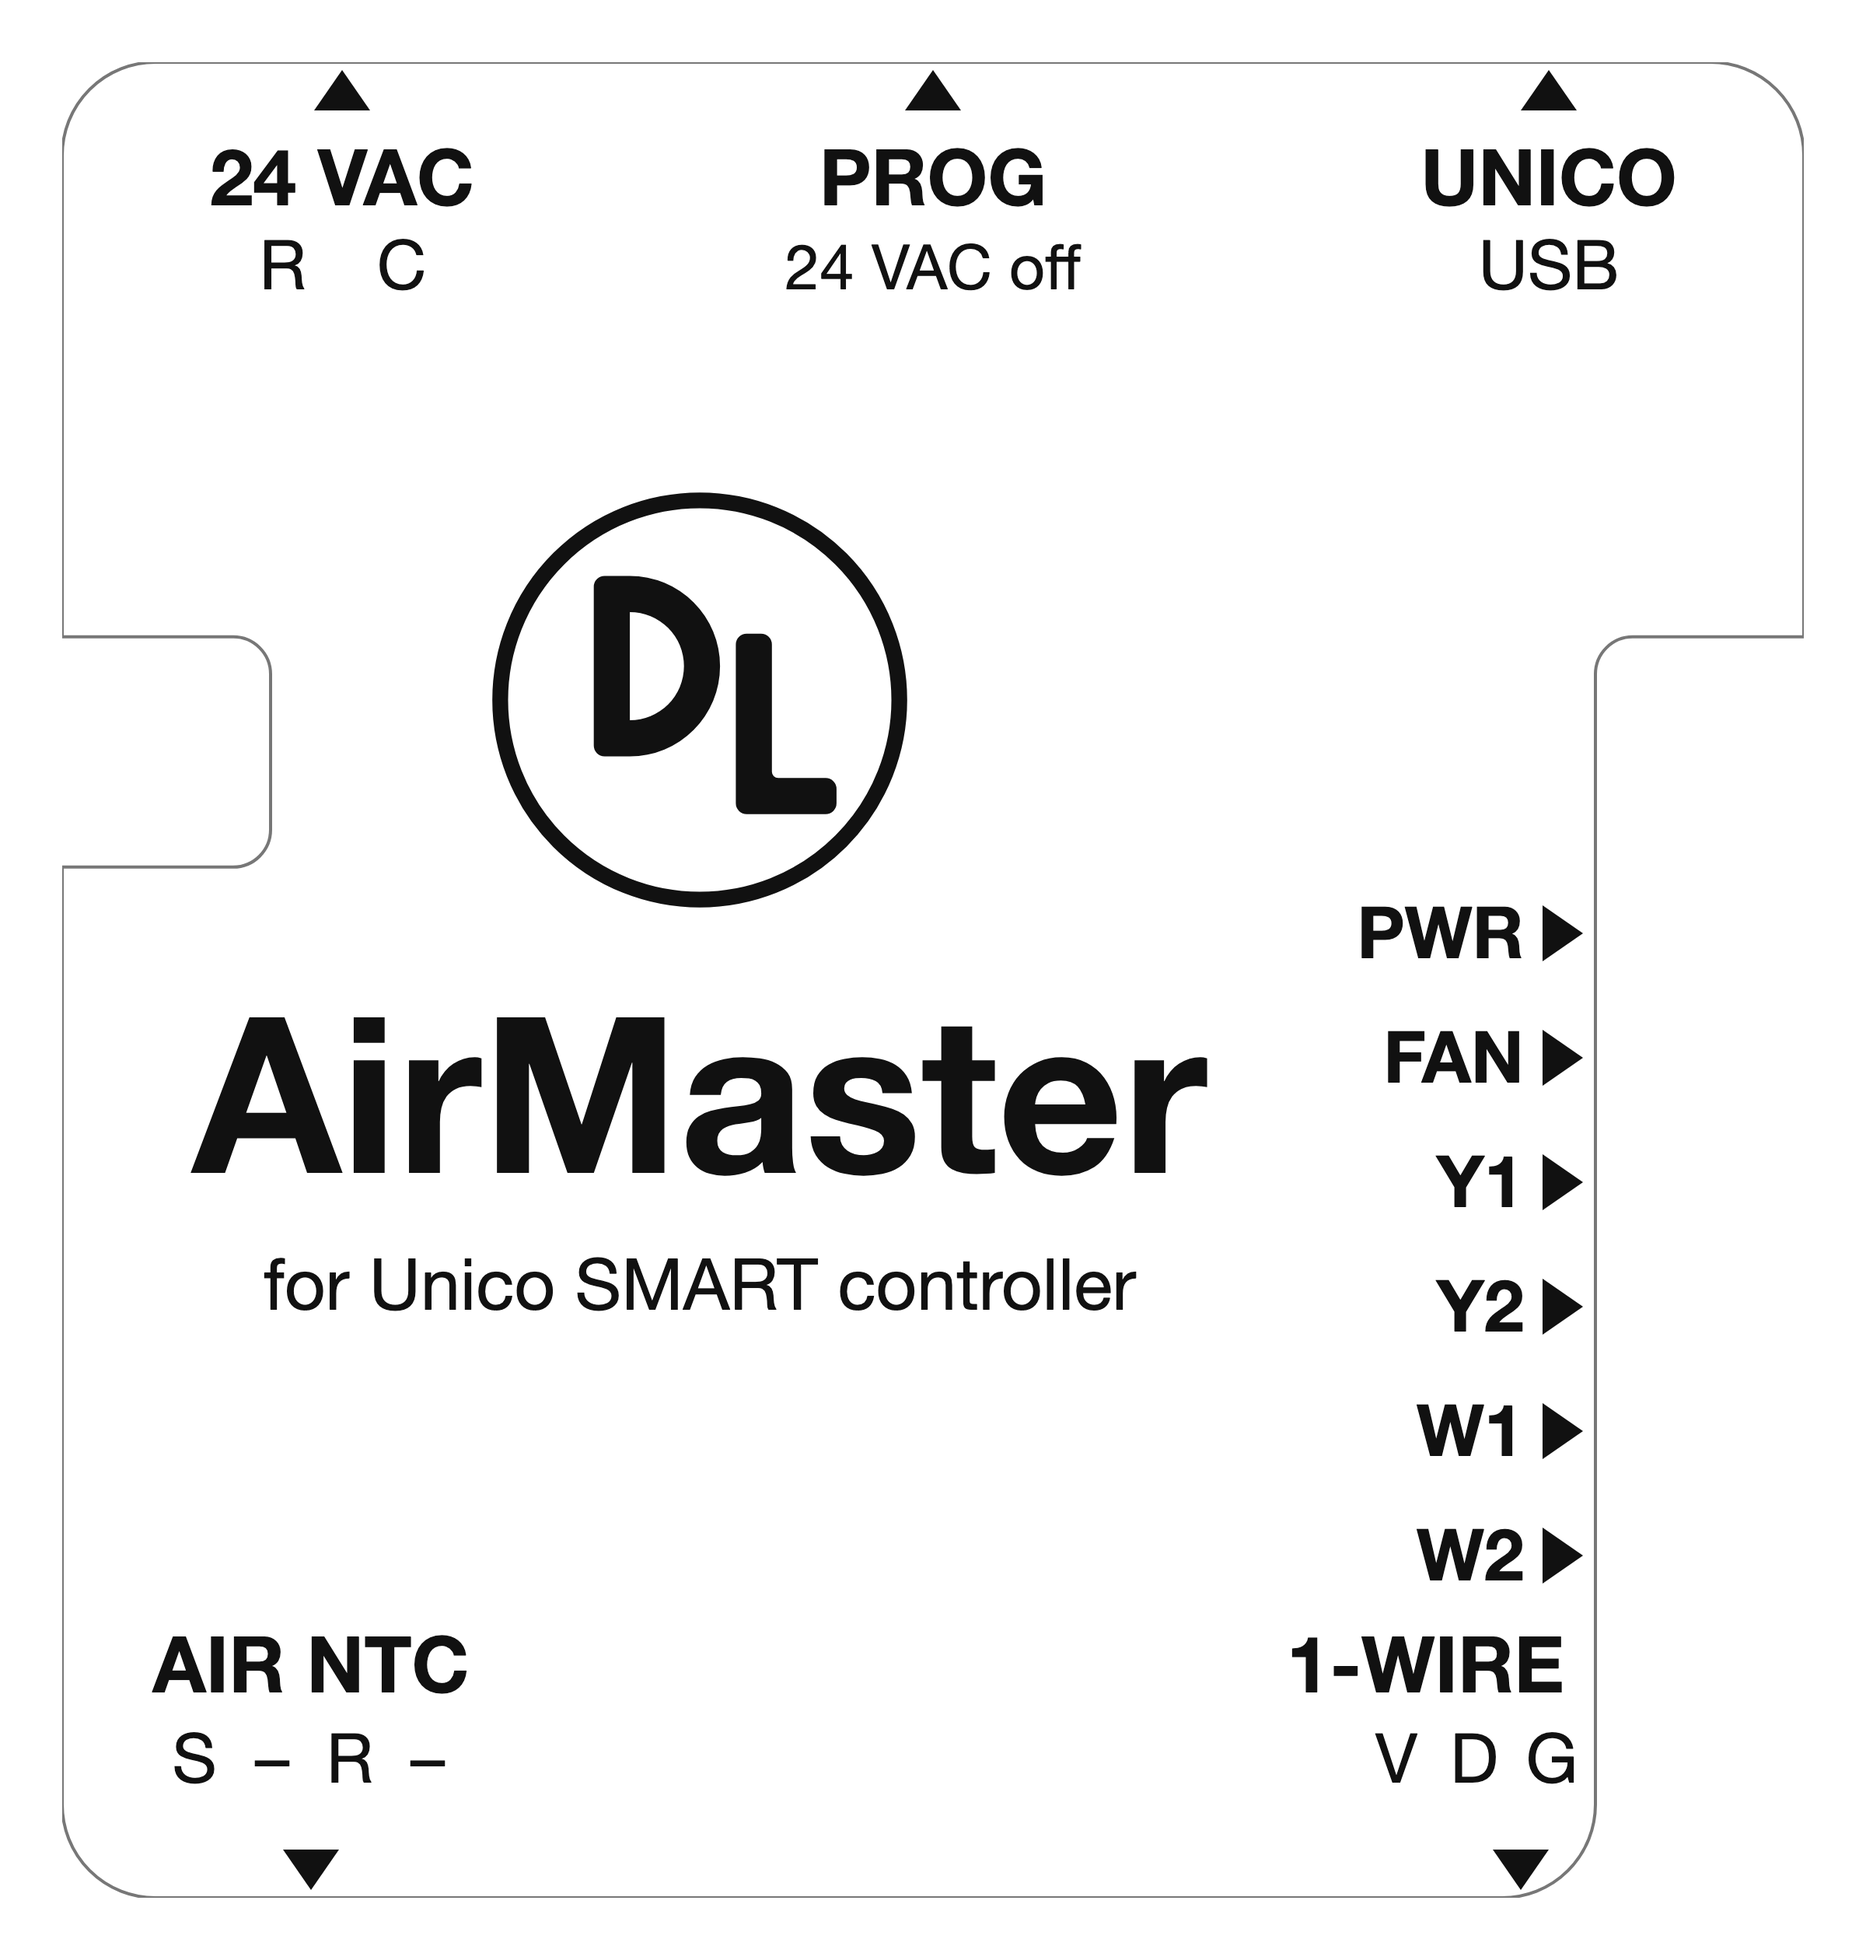
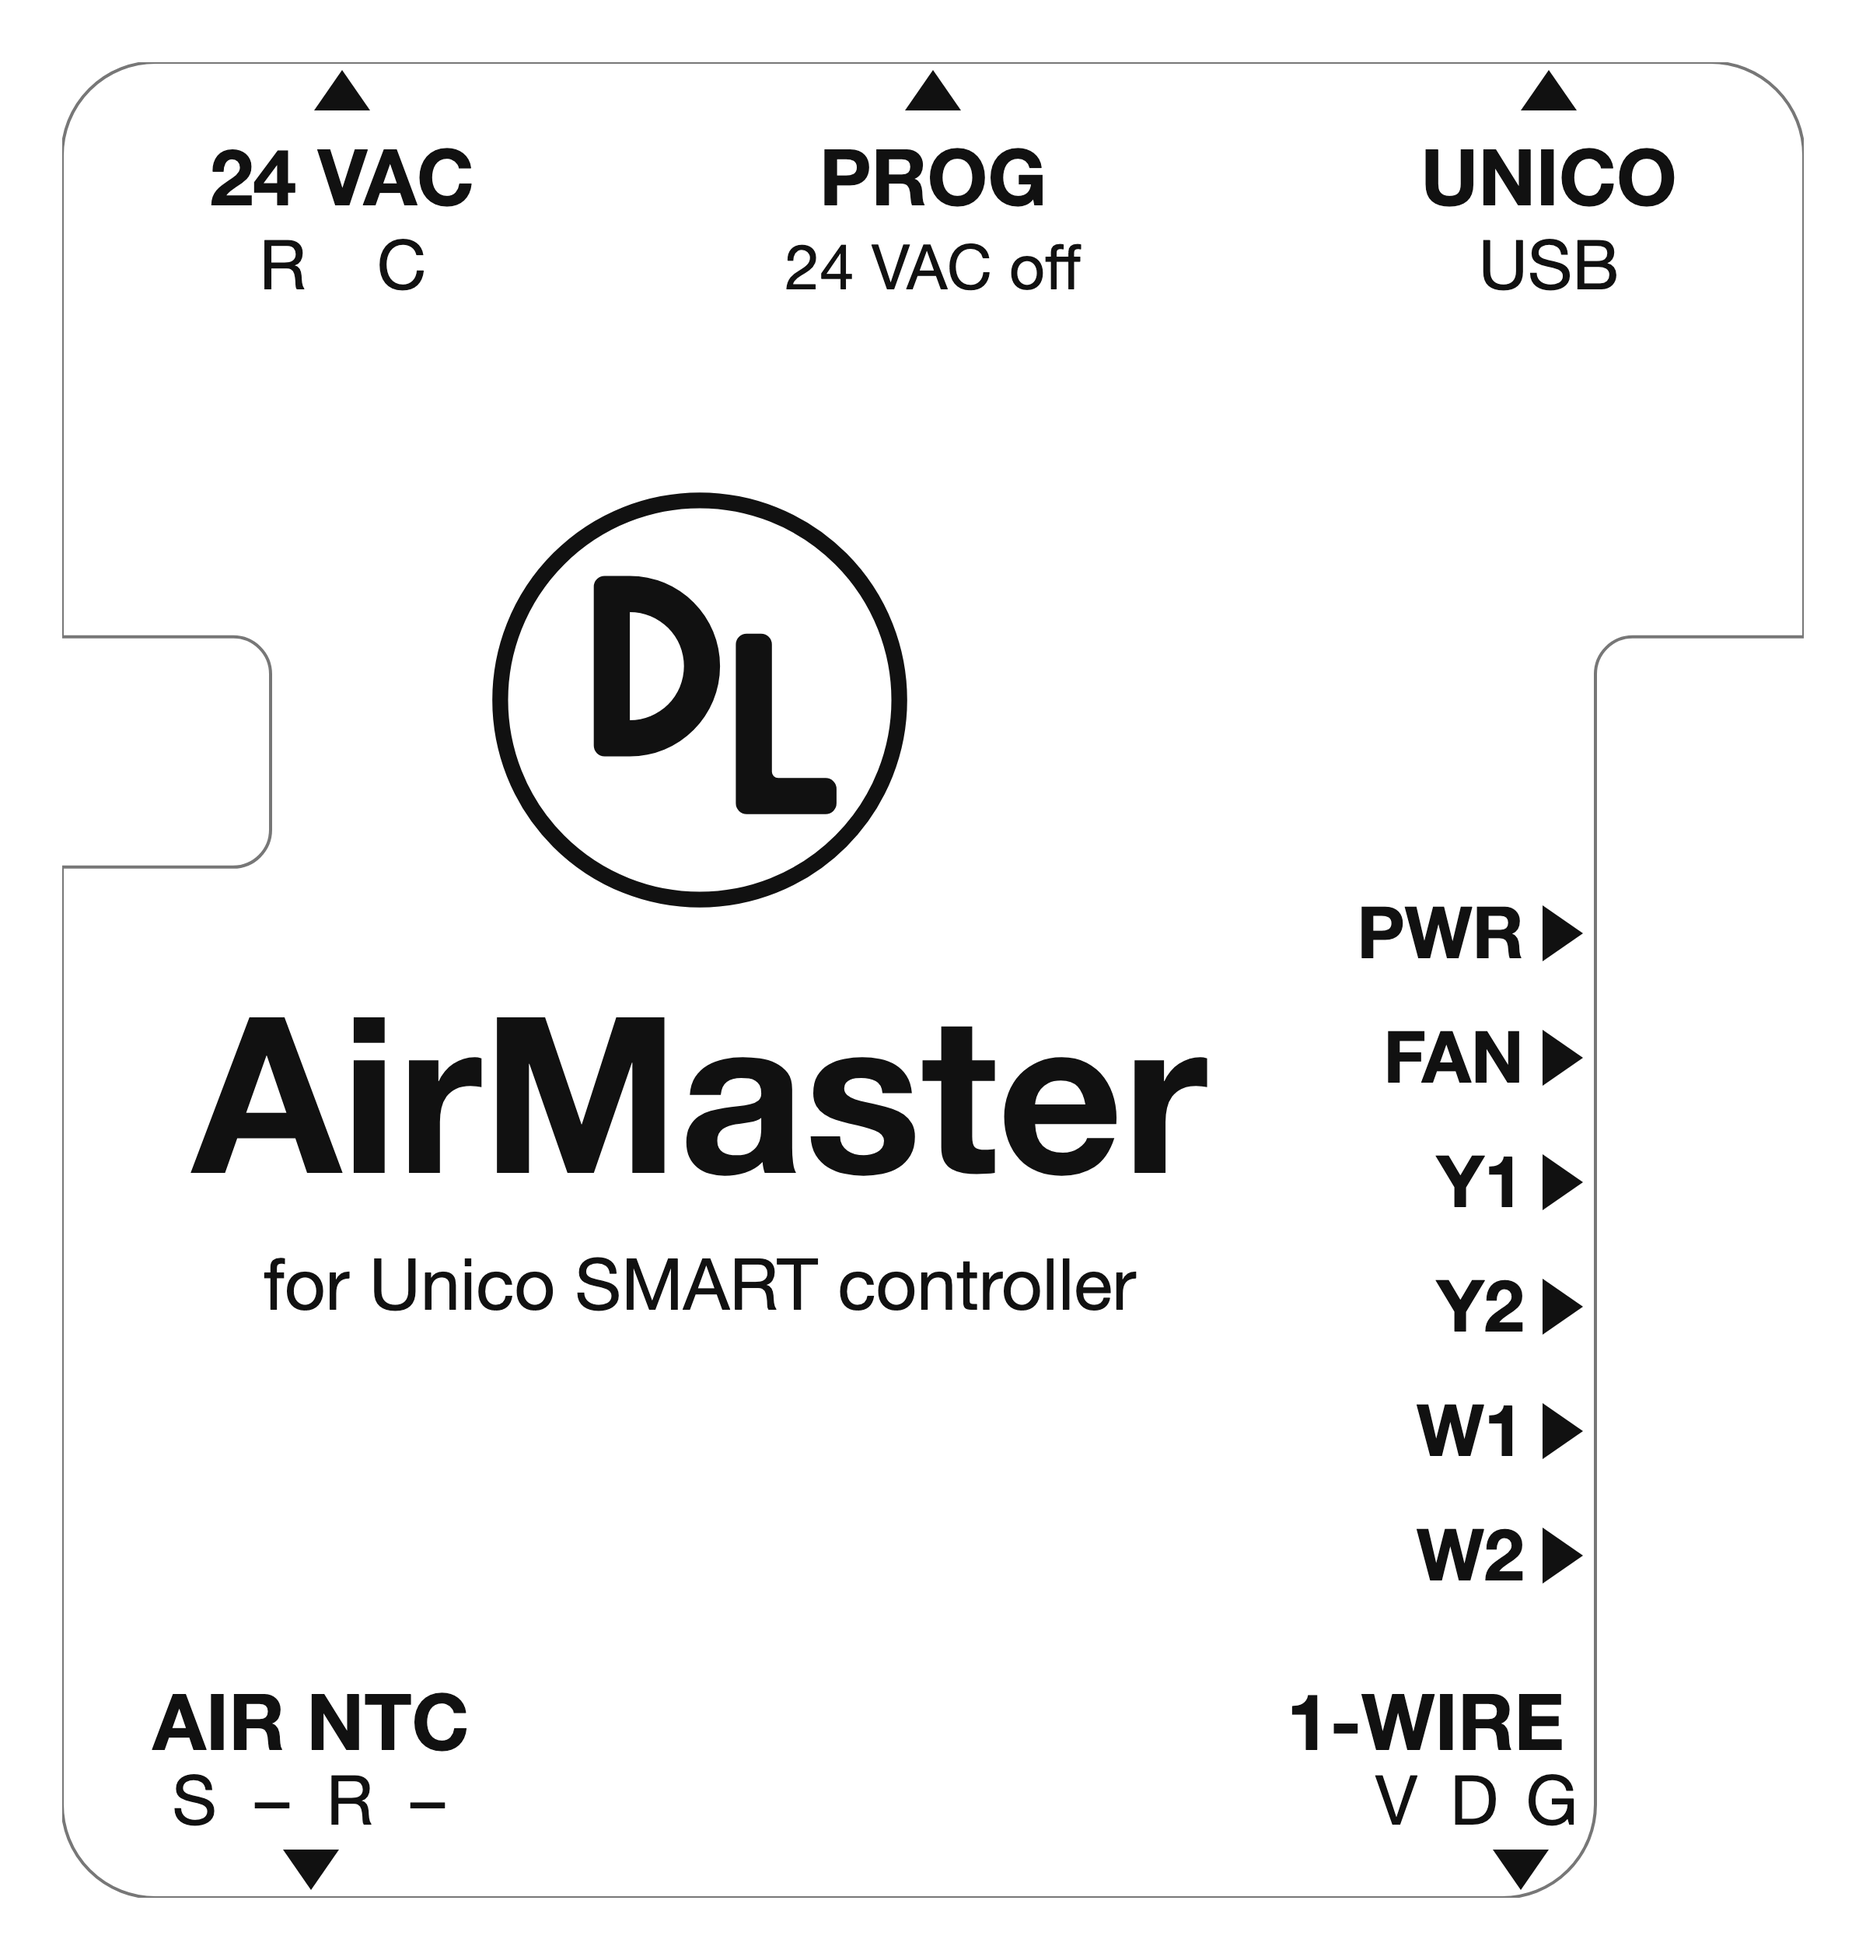
AirMaster Rev C label: bottom legends closer to their arrows
1-WIRE crowded W2. The plug names, their pin letters and the arrows now
stand 0.8 mm apart, which leaves 3.6 mm between 1-WIRE and W2.

Changed region(s): [[0.0625, 0.8357, 0.25, 0.9286], [0.6875, 0.8357, 0.8438, 0.9286]]

diff --git a/hardware/label/gen-label.py b/hardware/label/gen-label.py
@@ -23,6 +23,8 @@ FONT = "Helvetica Neue, Helvetica, Arial, sans-serif"
 REVC = sys.argv[1:] == ["revc"]
 TX = -7.5 if REVC else -5.5        # title block centre, left on Rev C to clear the LED names
 TS = 7.0 if REVC else 8.4          # title size, and the tag line below it in proportion
+# bottom legends' baselines: on Rev C the plug name, its pin letters and the arrow stand 0.8 mm apart, clear of W2
+BT, BP = (-24.75, -27.15) if REVC else (-22.9, -25.8)
 LEDX = 25.0                        # Rev C: the LED holes, under the right-hand cover screw
 LEDS = (("PWR", 1.5, "#18a848"), ("FAN", -2.5, "#e8b400"), ("Y1", -6.5, "#1f5fd8"), ("Y2", -10.5, "#1f5fd8"),
         ("W1", -14.5, "#d8261c"), ("W2", -18.5, "#d8261c"))
@@ -72,13 +74,13 @@ def art():
     a += [tri(0, HH - 0.25, "up"), text(0, 24.9, "PROG", 2.5, "bold"), text(0, 22.2, "24 VAC off", 2.0)]
     a += [tri(19.8, HH - 0.25, "up"), text(19.8, 24.9, "UNICO", 2.5, "bold"), text(19.8, 22.2, "USB", 2.2)]
     # bottom panel: sensor plugs, pin letters at the true 2.5 mm pitch
-    a += [tri(-20.0, -HH + 0.25, "down"), text(-20.0, -22.9, "AIR NTC", 2.5, "bold")]
+    a += [tri(-20.0, -HH + 0.25, "down"), text(-20.0, BT, "AIR NTC", 2.5, "bold")]
     for x, s in ((-23.75, "S"), (-21.25, "&#8211;"), (-18.75, "R"), (-16.25, "&#8211;")):
-        a.append(text(x, -25.8, s, 2.2))
+        a.append(text(x, BP, s, 2.2))
     if REVC:    # the slot takes the plug's G end, so the legend and its pin letters stand 1.5 mm left of true
-        a += [tri(18.9, -HH + 0.25, "down"), text(20.3, -22.9, "1-WIRE", 2.5, "bold", "end")]
+        a += [tri(18.9, -HH + 0.25, "down"), text(20.3, BT, "1-WIRE", 2.5, "bold", "end")]
         for x, s in ((14.9, "V"), (17.4, "D"), (19.9, "G")):
-            a.append(text(x, -25.8, s, 2.2))
+            a.append(text(x, BP, s, 2.2))
         # LEDs through the floor, in the slot, so the lit LED shows its own colour: a name and a pointer to its hole
         for name, y, col in LEDS:
             a.append(tri(NX - 0.4, y, "right"))
